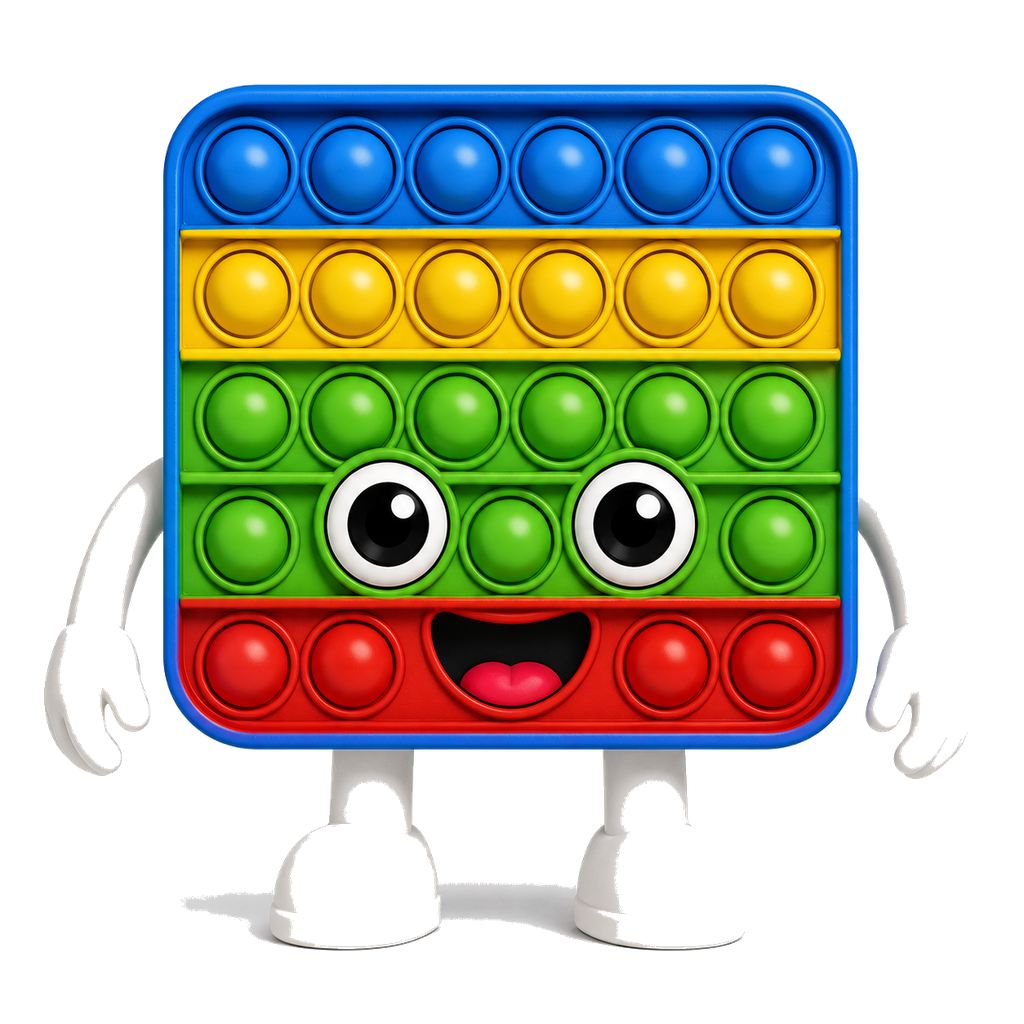
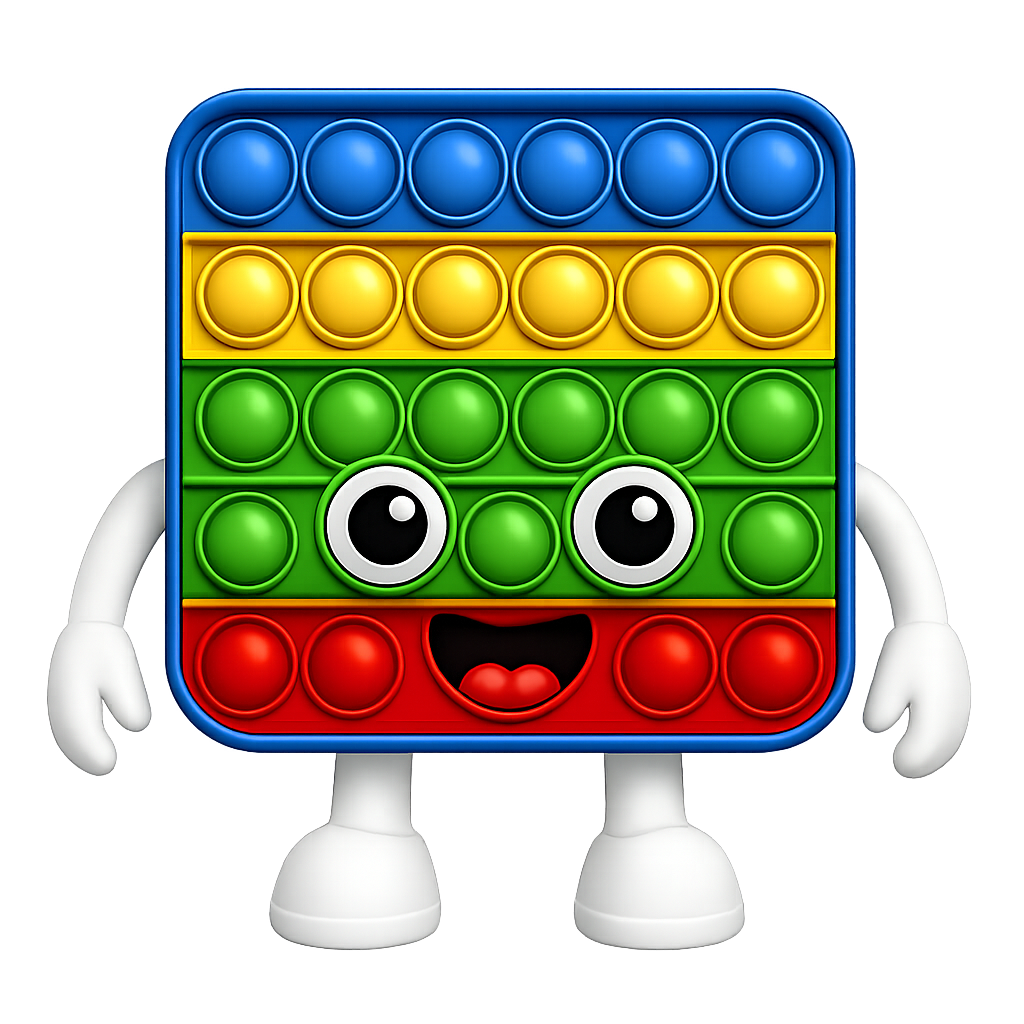
Fidgetini: clean transparent re-drops + add #32 Spinirino
User dropped 5 fresh PNGs to the marketing-site folder (which threw me
off earlier when I checked the game folder). They're cleaner than my
earlier keyer output — professionally cut, no shadow blobs:
  • #28 Popini Itini, #29 Fidgetini Cubini, #30 Dragini Sqishini
  • #31 La Fidget Combination (was still RGB — keyed with strict
    predicate + connected-component cleanup)
  • #32 Spinirino (NEW — 5th Fidgetini, red fidget spinner)

All synced to both repos, resized to 1024px max (#29 was 1536x1024,
#32 was 1024x1536), re-saved with PNG optimize=True. #28 and #30
still 1.5-1.7 MB because their colorful detail compresses poorly —
acceptable given the visual quality bump over my earlier cleaned
versions.

Spinirino (#32) gets these stats — slots cleanly into the existing
Fidgetini ladder without disturbing siblings:
  rarity: Secret  · mult: 16×  · tag: Fidgetini  · obtain: drop
  bgNum: '04' (Toy Workshop, same as the other Fidgetini)
  emoji: 🌀  · color: #e74c3c (red, matches the spinner)

Ladder before / after:
  #28 Popini Itini       13×    →   13×
  #29 Fidgetini Cubini   15×    →   15×
  #32 Spinirino          (new)  →   16×
  #30 Dragini Sqishini   18×    →   18×
  #31 La Fidget Combo    35×    →   35×

SQL: scripts/sql/27_skin_meta_spinirino.sql — inserts the meta row so
admin Give Skin works end-to-end (otherwise the gift trigger silently
drops it; same bug Auraberry hit pre-07).

Changed region(s): [[0.0312, 0.0625, 0.9688, 0.9375], [0.0625, 0.5312, 0.125, 0.625]]

diff --git a/src/App.jsx b/src/App.jsx
@@ -138,6 +138,12 @@ const CHARACTERS = [
     rarity: 'Limited', unlock: 0, emoji: '🧪', color: '#ff4500', mult: 35,
     tag: 'Fidgetini', obtain: 'fusion',
     bg: 'linear-gradient(180deg, #0d3b66 0%, #c0392b 35%, #ff4500 60%, #1a0530 100%)' },
+  // Spinirino — red fidget spinner with face + legs. 4th Fidgetini drop,
+  // sits between Cubini (15×) and Dragini (18×) on the multiplier ladder.
+  { id: 32, name: 'Spinirino', file: '32_Spinirino.png', bgNum: '04',
+    rarity: 'Secret', unlock: 0, emoji: '🌀', color: '#e74c3c', mult: 16,
+    tag: 'Fidgetini', obtain: 'drop',
+    bg: 'linear-gradient(180deg, #1a0530 0%, #e74c3c 35%, #ff4500 65%, #06243d 100%)' },
 ];
 
 // Per-skin render scale to harmonize on-screen size in the character spotlight.
